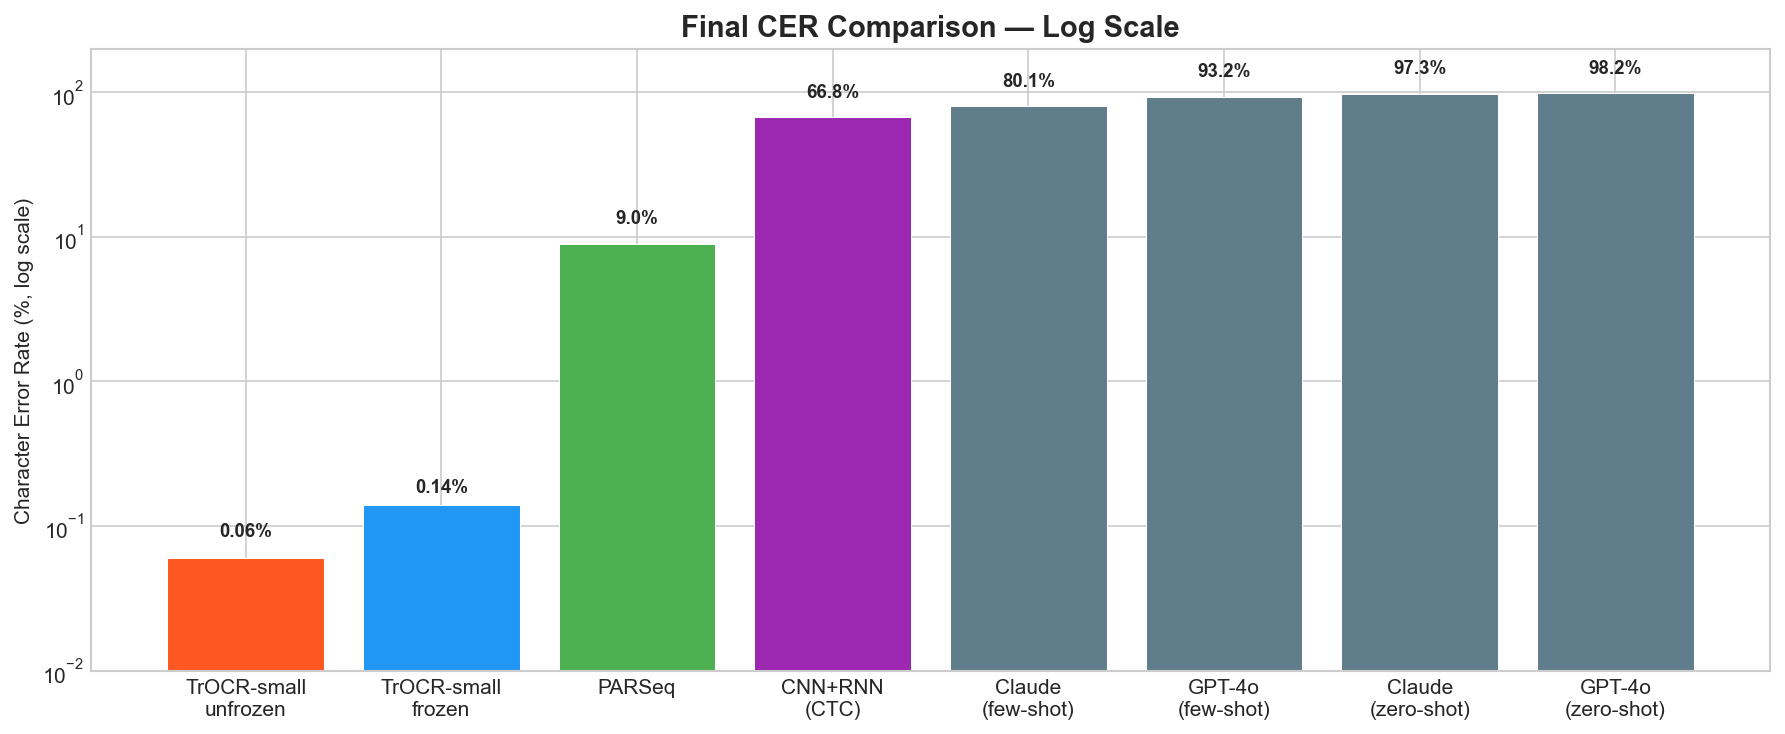
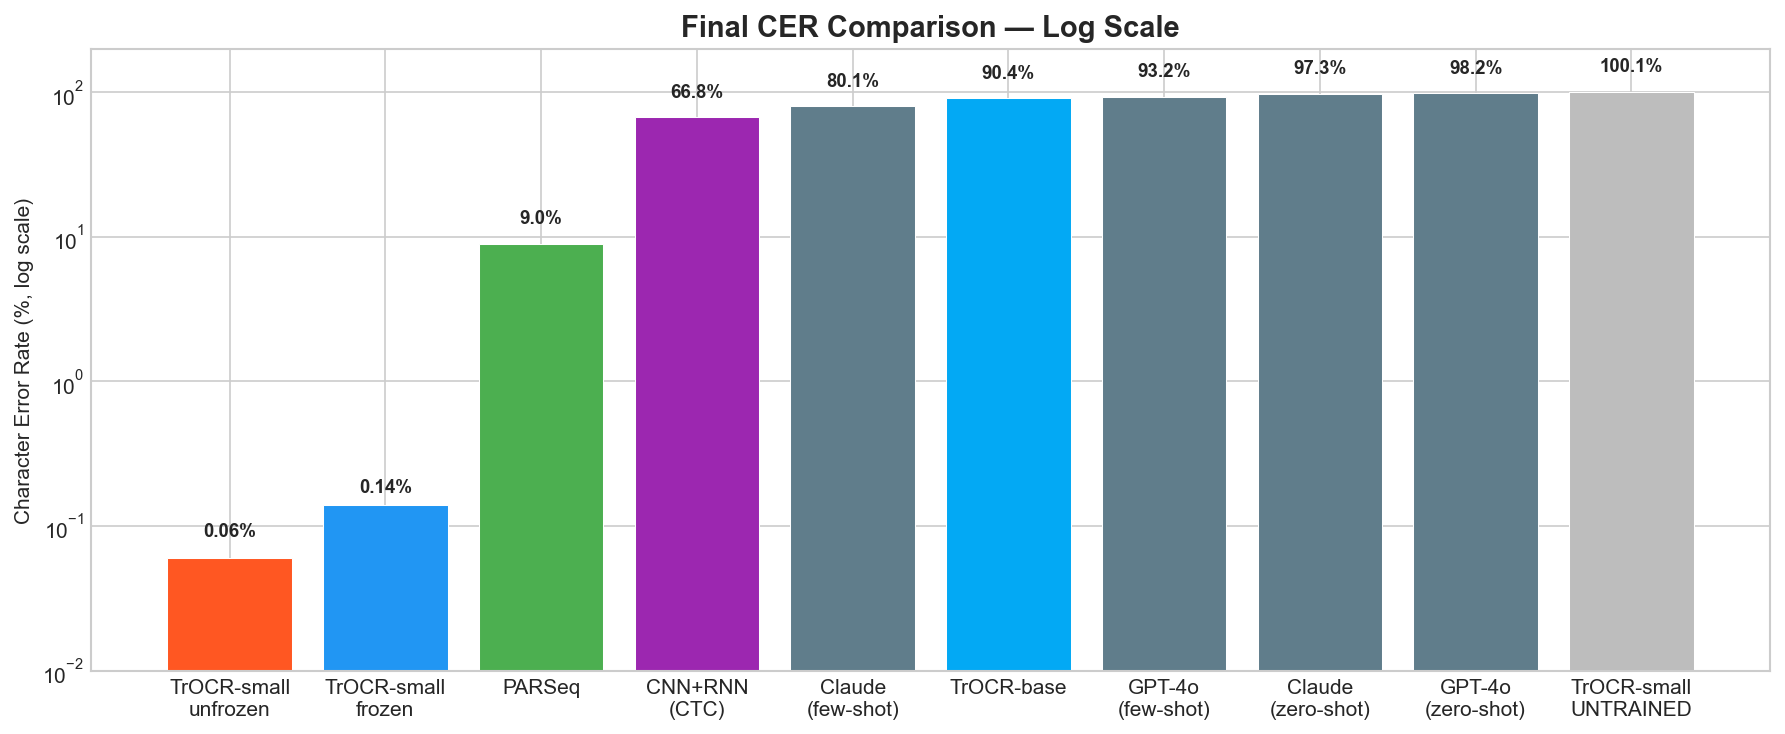
Add unfine-tuned baseline results (100.12% CER) and update all charts
Pretrained TrOCR-small outputs '.' for every Ogham image — 100% CER,
0% exact match. Fine-tuning produces a 1,669x CER reduction to 0.06%.

Updated bar charts now include all 10 model configurations: TrOCR-small
unfrozen/frozen, PARSeq, CNN+RNN, Claude, TrOCR-base, GPT-4o, and
the untrained baseline.

diff --git a/scripts/plot_model_comparison.py b/scripts/plot_model_comparison.py
@@ -146,14 +146,16 @@ all_models = {
     "PARSeq": 8.96,
     "CNN+RNN\n(CTC)": 66.82,
     "Claude\n(few-shot)": 80.07,
+    "TrOCR-base": 90.43,
     "GPT-4o\n(few-shot)": 93.23,
     "Claude\n(zero-shot)": 97.33,
     "GPT-4o\n(zero-shot)": 98.22,
+    "TrOCR-small\nUNTRAINED": 100.12,
 }
 
 model_colors = [
     colors["unfrozen"], colors["frozen"], colors["parseq"], colors["cnn_rnn"],
-    colors["large"], colors["large"], colors["large"], colors["large"],
+    colors["large"], "#03A9F4", colors["large"], colors["large"], colors["large"], "#BDBDBD",
 ]
 
 bars = ax.bar(all_models.keys(), all_models.values(), color=model_colors, edgecolor="white", linewidth=0.5)

diff --git a/docs/unfinetuned_baseline_results.md b/docs/unfinetuned_baseline_results.md
@@ -1,0 +1,43 @@
+# Unfine-tuned Baseline Results — 2026-04-18
+
+## Experiment: TrOCR-small-stage1 Before Any Training
+
+### Configuration
+- **Model**: `microsoft/trocr-small-stage1` (62M params)
+- **Tokenizer**: Extended with 28 Ogham tokens (latin-init embeddings)
+- **Training**: None — pretrained weights only (Stage 1 synthetic English pretraining)
+- **Evaluation**: 5,000 synthetic validation images from `DaraTraining/ogham-synthetic-200k`
+
+### Results
+
+| Metric | Value |
+|--------|-------|
+| Mean CER | **100.12%** |
+| Exact Match | **0.0%** |
+| Samples | 5,000 |
+
+### Sample Predictions
+
+| Reference | Prediction |
+|-----------|------------|
+| ᚐᚌᚊᚊ | . |
+| ᚋᚐᚊᚔᚈᚈᚐᚄ ᚋᚐᚊᚔ ᚋᚒᚉᚑᚔ ᚉᚑᚏᚁᚁᚔ | . |
+| ᚔᚌᚐᚉᚁᚆᚐᚋᚁᚐᚔᚑᚉ | . |
+| ᚉᚋᚊᚒ | . |
+| ᚁᚏᚒᚄᚉᚉᚑᚄ ᚋᚐᚊᚔ ᚉᚐᚂᚔᚐᚉᚔ | --- |
+
+Every prediction is either `"."` or `"---"` — the pretrained RoBERTa decoder defaults to common English punctuation tokens when shown images it has never been trained on.
+
+### Fine-tuning Impact
+
+| Model | CER | Exact Match | Improvement |
+|-------|-----|-------------|-------------|
+| Unfine-tuned (0 epochs) | 100.12% | 0.0% | — |
+| Fine-tuned frozen (20 epochs) | 0.14% | 99.5% | 715x |
+| Fine-tuned unfrozen (20 epochs) | 0.06% | 99.8% | 1,669x |
+
+Fine-tuning on 200k synthetic images for 20 epochs produces a **1,669x reduction in CER** — from complete failure (100%) to near-perfect (0.06%).
+
+### Key Finding
+
+The pretrained TrOCR-small model has **zero Ogham capability**. The 0.06% CER achieved after fine-tuning is entirely learned from synthetic training data. This confirms that domain-specific fine-tuning is essential and that the pretrained model contributes only general visual feature extraction (from the ViT encoder) and text generation patterns (from the RoBERTa decoder), not any script-specific knowledge.
